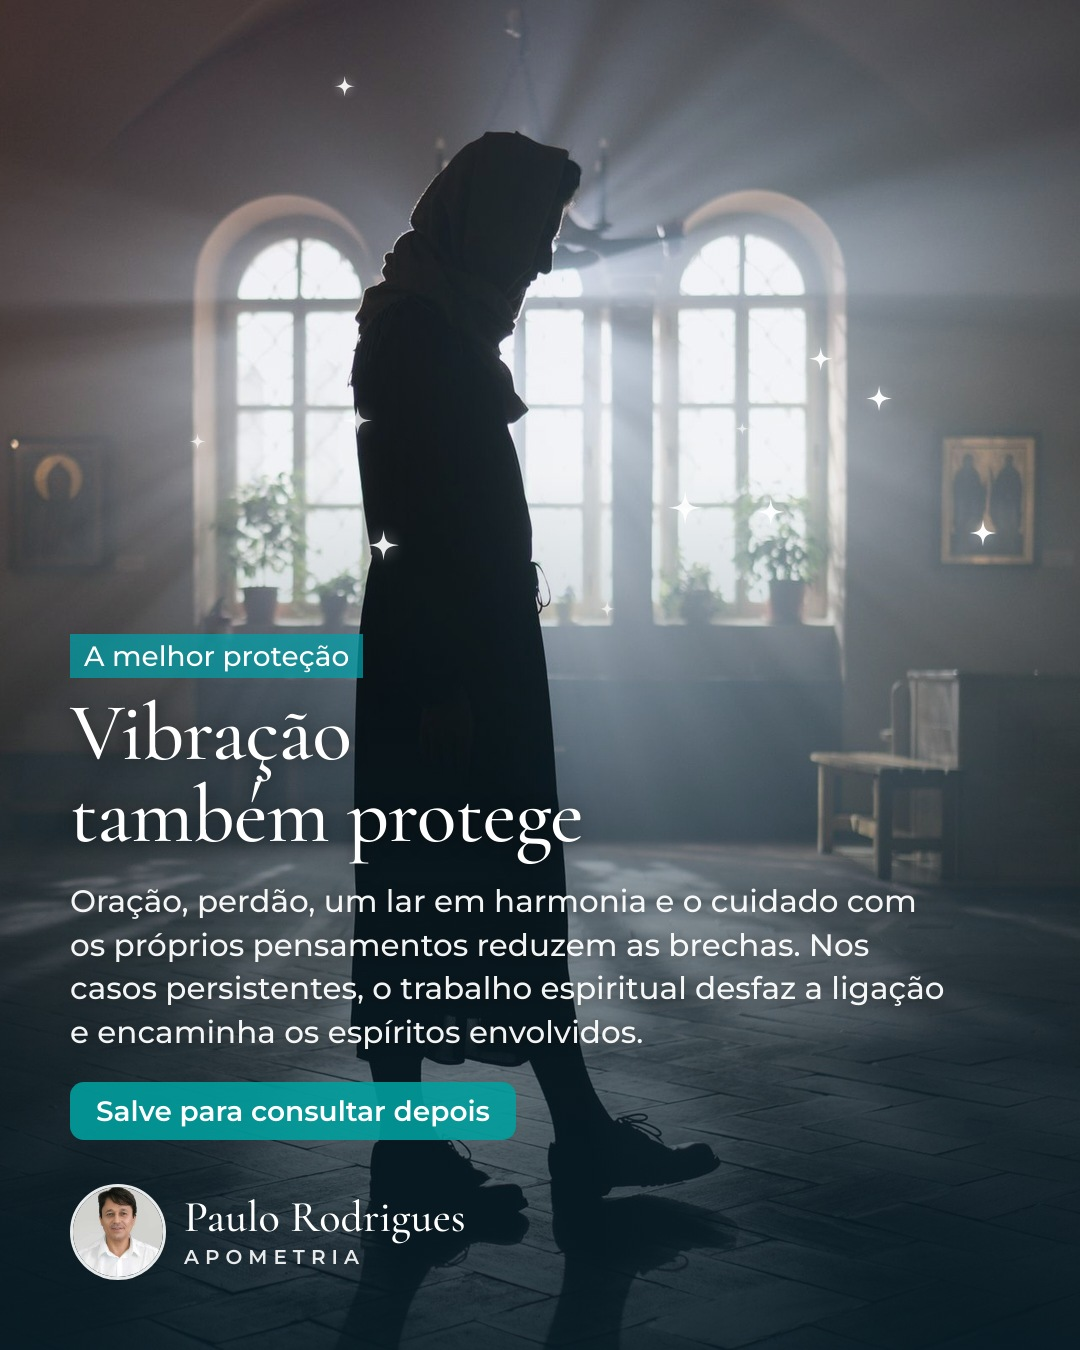
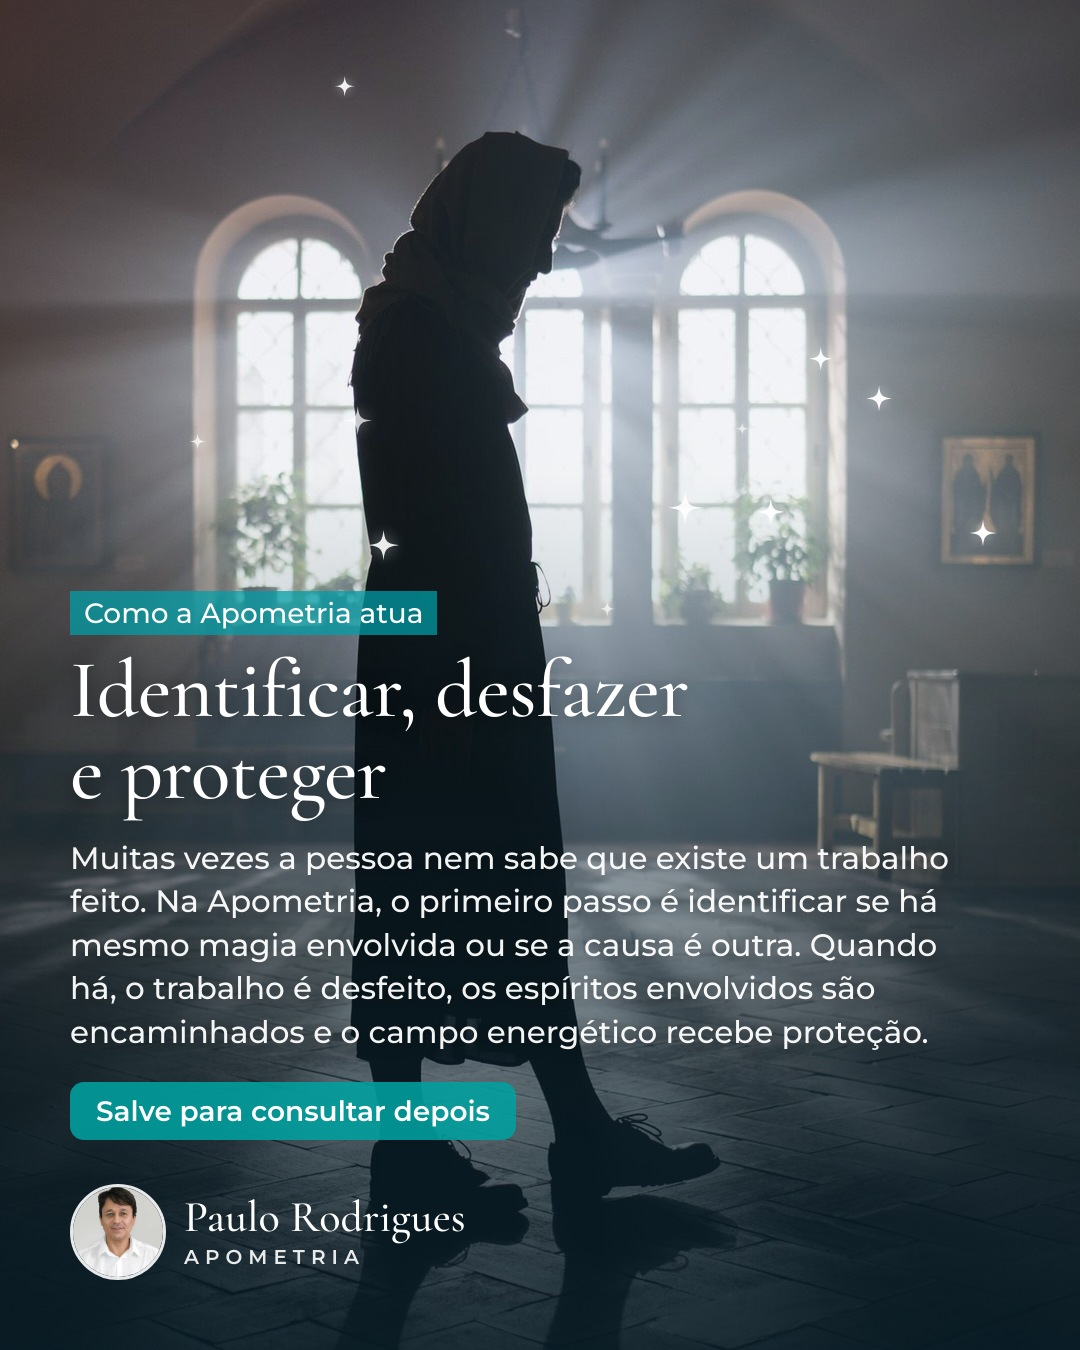
Magia: última lâmina e legenda falam de como a Apometria identifica, desfaz e protege
Claude-Session: https://claude.ai/code/session_01JEWNugGqZtfRNNpR6FEnd2

Changed region(s): [[0.0611, 0.4356, 0.8861, 0.7778], [0.3972, 0.4978, 0.6417, 0.5289]]

diff --git a/marcas/apometria-brasil/aprendizados.md b/marcas/apometria-brasil/aprendizados.md
@@ -55,3 +55,4 @@ Os agentes leem este arquivo antes de criar.
 - 26/11/2026 · ⭐ O carrossel/vídeo dos implantes astrais (Gemini) virou o PADRÃO VISUAL: imagens realistas e cinematográficas que mostram literalmente o conceito, paleta petróleo/turquesa com vermelho-escuro nos elementos negativos e luz quente na cura, entidades em silhueta sem rosto. Ver topo de `marca.md` e `referencias-padrao/`.
 - 26/11/2026 · Imagem literal recusada (mulher no sofá com celular, rachaduras "estampadas" na blusa, fio parecendo cabo): para conceitos abstratos (sintonia, brecha, vínculo, corte) usar imagem SIMBÓLICA — energia, luz, fumaça, esfera, silhueta de luz — e não cena do cotidiano com efeito colado. Exemplo recusado: `producoes/2026-11-24-apometria-trabalhos-magia/gemini/recusada-lamina3-literal.jpg`.
 - 26/11/2026 · Magia: imagens simbólicas geradas também não agradaram. Versão final = vídeo do Gemini (2 partes) nas lâminas 1–2 + fotos de banco escolhidas antes nas lâminas 3–6.
+- 26/11/2026 · Fechamento dos carrosséis (última lâmina e fim da legenda): NÃO recomendar práticas (oração, perdão, hábitos). Falar de como a Apometria atua: identifica se o problema é mesmo aquele (muitas vezes a pessoa não sabe que tem magia/obsessão), desfaz/corta, encaminha os espíritos e protege o campo energético. Sem prometer resultado.

diff --git a/producoes/2026-11-24-apometria-trabalhos-magia/final/ORDEM.md b/producoes/2026-11-24-apometria-trabalhos-magia/final/ORDEM.md
@@ -4,5 +4,5 @@
 3. lamina-3.jpg — "Só entra onde encontra sintonia" (foto)
 4. lamina-4.jpg — "Depende de quem o sustenta" (foto)
 5. lamina-5.jpg — "Quando tudo trava ao mesmo tempo" (foto)
-6. lamina-6.jpg — "Vibração também protege" (foto)
+6. lamina-6.jpg — "Identificar, desfazer e proteger" (foto)
 lamina-1.jpg e lamina-2.jpg (fotos) ficam como reserva, sem uso.
